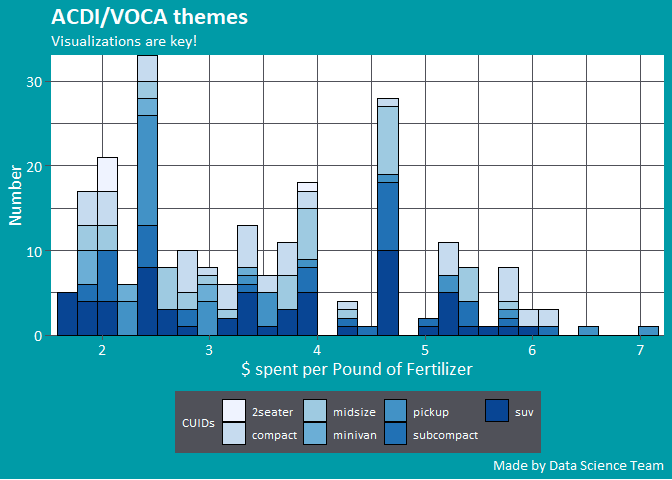
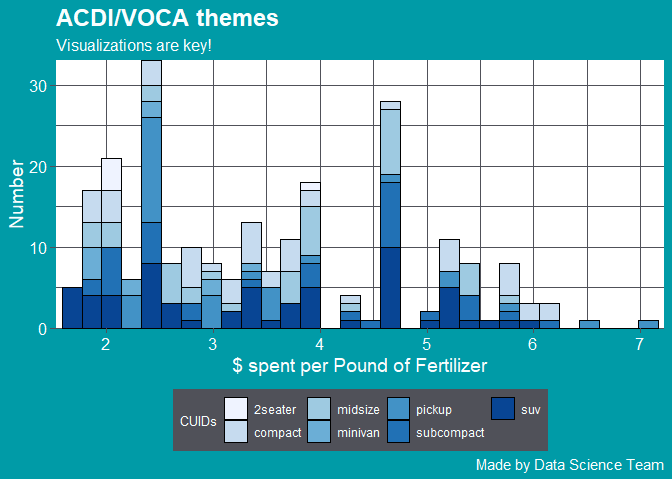
- remove font default from theme functions - remove font arguments from theme functions
references #2

Changed region(s): [[0.0, 0.0, 1.0, 1.0]]

diff --git a/NEWS.md b/NEWS.md
@@ -1,3 +1,8 @@
+# ACDIVOCAthemes 0.1.1
+
+* Remove "Calibri" as default font & remove all font options from theme functions.
+  * See [issue #2](https://github.com/ACDIVOCATech/ACDIVOCAthemes/issues/2)
+
 # ACDIVOCAthemes 0.1.0
 
 * Added a `NEWS.md` file to track changes to the package.

diff --git a/README.md b/README.md
@@ -1,6 +1,5 @@
 
 <!-- README.md is generated from README.Rmd. Please edit that file -->
-
 <!-- badges: start -->
 
 [![Lifecycle:
